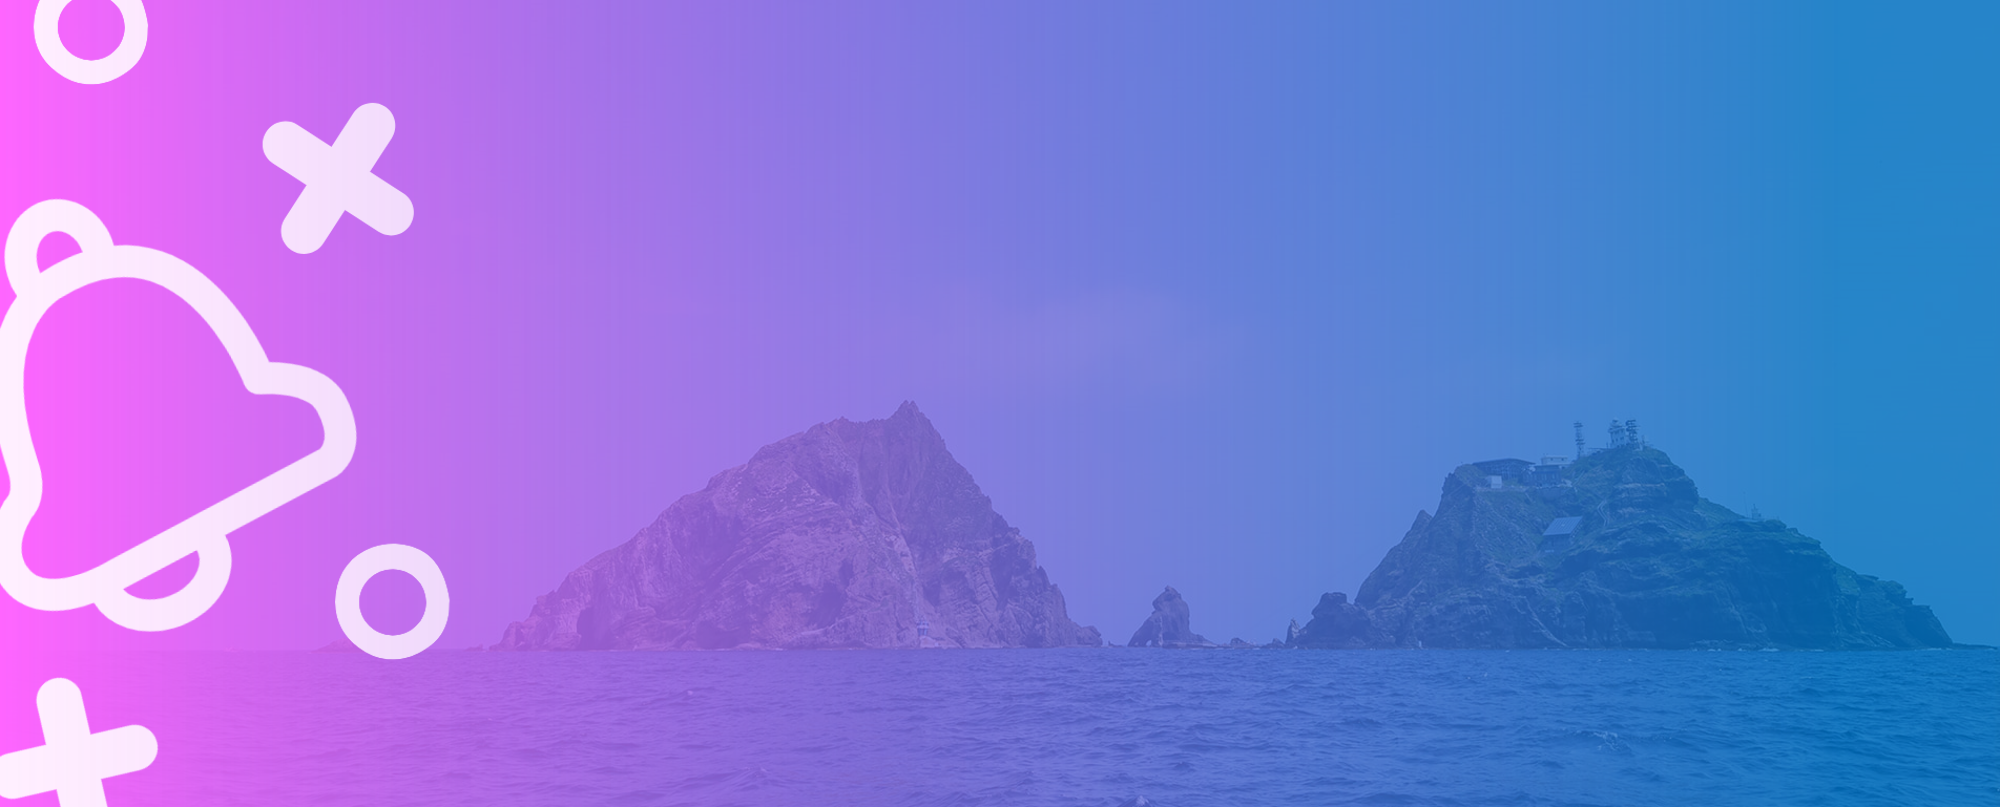
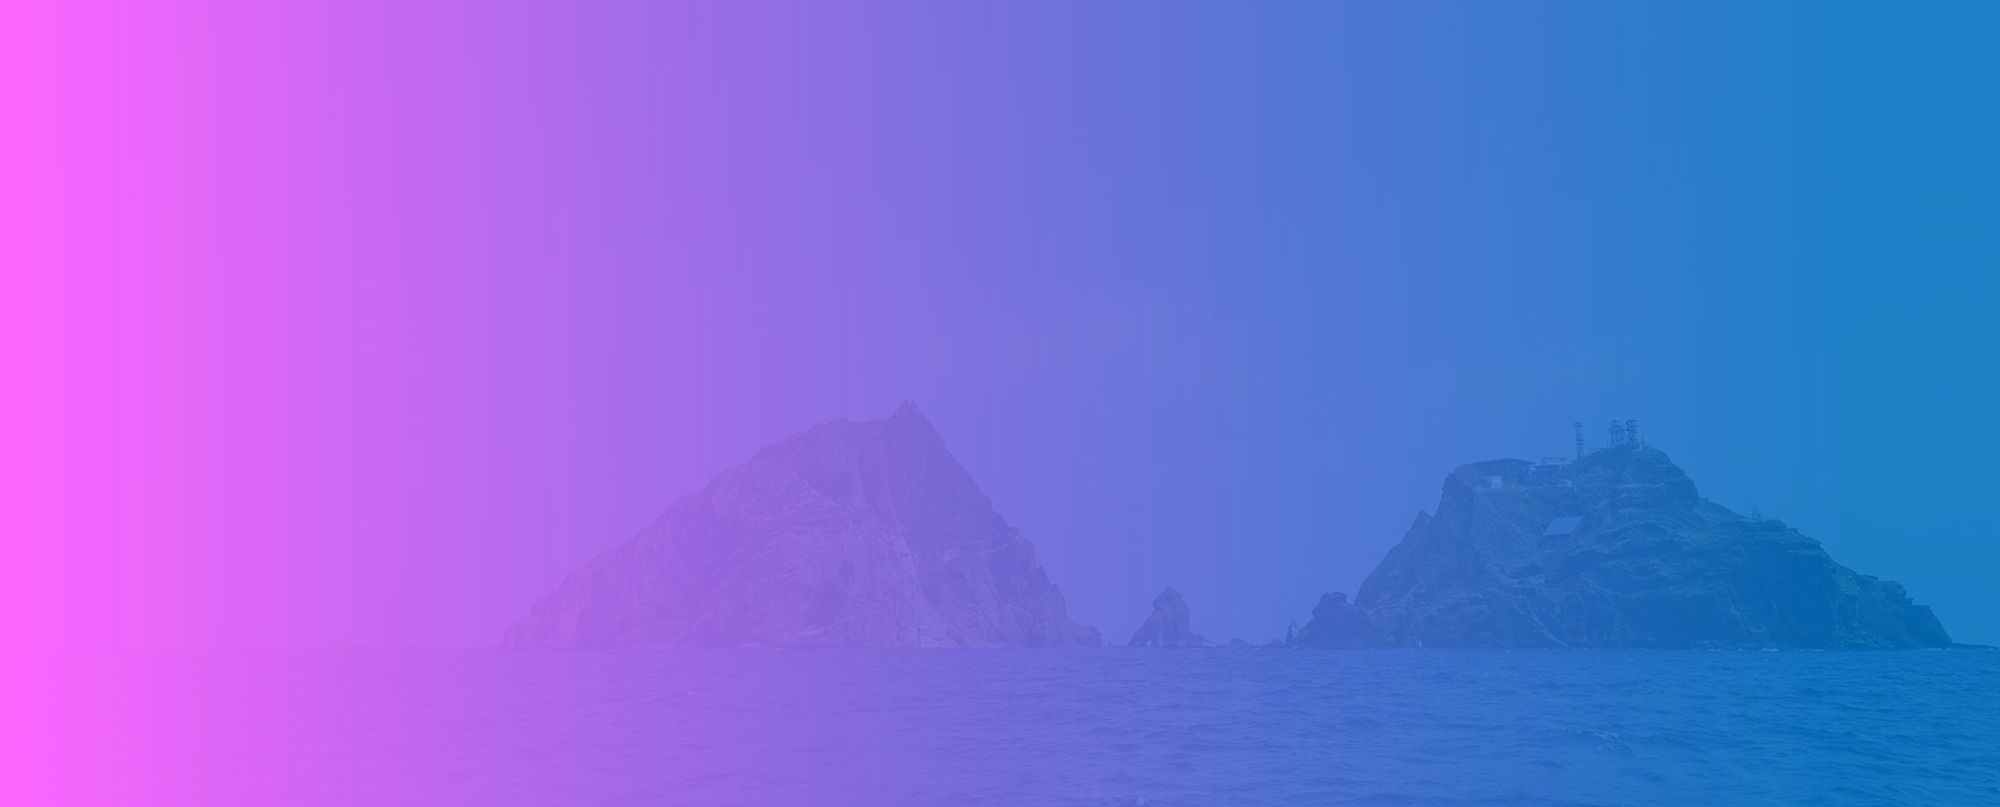
update

diff --git a/dokdogdb.html b/dokdogdb.html
@@ -4,18 +4,67 @@
     <meta charset="UTF-8">
     <meta http-equiv="X-UA-Compatible" content="IE=edge">
     <meta name="viewport" content="width=device-width, initial-scale=1.0">
-    <link rel="stylesheet" href="../index.css">
+    <link rel="stylesheet" href="./index.css">
     <link rel="stylesheet" href="./dokdogdb.css">
     <script src="http://code.jquery.com/jquery-latest.js"></script>
     <title>독도애락ㅣ독도골든벨</title>
+    <link rel="shortcut icon" type="image/x-icon" href="./img/독도icon.svg">
 </head>
 <body>
     <div class="ld"></div>
     <div class="topbar">
         <div class="topbar_group_1">
-            <img class="topbar_titleimg" src="../img/독도icon.svg" width="100px">
+            <img class="topbar_titleimg" src="./img/독도icon.svg" width="100px">
             <div class="topbar_title fwt">독도애락</div>
         </div>
+    </div>
+    <div class="i_1">
+        <div class="i_1_img__">
+            <img class="i_1_img_" src="./img/bell.png">
+        </div>
+        <img class="i_1_img" src="./img/banner_dgb.png">
+        <div class="i_1_text right">
+            <div class="i_1_title fmedium">독도 골든벨</div>
+            <div class="i_1_subtitle fregular">독도 골든벨에 오신걸 환영합니다!</div>
+        </div>
+    </div>
+    <div class="i_margin_top"></div>
+    <div class="b_1">
+        <div class="b_1_">
+            <img class="b_1_img" src="./img/dokdo.png">
+            <div class="b_1__">
+                <div class="b_1_line"></div>
+                <div class="b_1_text">
+                    <div class="b_1_title fmedium">독도를 얼마나 아시나요?</div>
+                    <div class="b_1_subtitle flight">독도 골든벨은 독도에 대한 퀴즈를 푸는 대회입니다!<br />여러분이 독도에대해 얼마나 아는지가 승패를 가릅니다!</div>
+                </div>
+            </div>
+        </div>
+        <div class="b_1_">
+            <img class="b_1_img" src="./img/hand.png">
+            <div class="b_1__">
+                <div class="b_1_line"></div>
+                <div class="b_1_text">
+                    <div class="b_1_title fmedium">누구보다 빠르게!</div>
+                    <div class="b_1_subtitle flight">문제의 답을 빨리 맞출수록 더 많은 점수가 주어집니다!<br />누구보다 빠르게 답을 맞춰보세요!</div>
+                </div>
+            </div>
+        </div>
+        <div class="b_1_">
+            <img class="b_1_img" src="./img/gift.png">
+            <div class="b_1__">
+                <div class="b_1_line"></div>
+                <div class="b_1_text">
+                    <div class="b_1_title fmedium">엄청난 상품!</div>
+                    <div class="b_1_subtitle flight">순위권에 들면 엄청난 문화 상품권을 드립니다!<br />누구보다 빠르게 답을 맞춰보세요!</div>
+                </div>
+            </div>
+        </div>
+    </div>
+    <div class="i_margin_top"></div>
+    <div class="b_2 fbold">이제,<br /><span class="b_bold">독도 골든벨</span>에<br />참가해 볼까요?</div>
+    <div class="b_2__">
+        <iframe class="b_2_" src="https://docs.google.com/forms/d/e/1FAIpQLSfcJSAS7GzDvxQQqTbf1OgqlL3Y3UPc4NlH0LBJSD631Hdqhw/viewform?embedded=true" height="600" frameborder="0" marginheight="0" marginwidth="0">로드 중…</iframe>
     </div>
     <script>
         $(window).load(function(){

diff --git a/index.css b/index.css
@@ -1,26 +1,32 @@
 body{margin: 0; font-family: fregular; }
 a{color: white; text-decoration: none;}
 
-.topbar{width: 100%; position: fixed; background-color: rgba(255,255,255,0.4); border-bottom: 1px solid white; backdrop-filter: blur(10px); z-index: 999; top: 0;}
+.topbar{width: 100%; position: fixed; background-color: rgba(255,255,255,0.4); border-bottom: 1px solid white; backdrop-filter: blur(10px); z-index: 998; top: 0;}
 .topbar_group_1{display: flex;}
 .topbar_title{margin-right: auto; font-size: 2em; margin-top: 17px;}
 .topbar_titleimg{margin-left: auto; padding: 10px 5px 10px 0px;}
 
 .i_1{width: 100vw; height: auto;}
 .i_1_img{position: absolute; z-index: -999; width: 100vw; top: 0;}
-.i_1_text{color: white; margin-top: calc(50% - 33vw); margin-right: 150px}
+.i_1_img__{position: absolute; z-index: -998; width: 100vw; top: 0; overflow-x: hidden;}
+.i_1_img_{width: 100vw; top: 0; opacity: 0.5;}
+.i_1_text{color: white; margin-top: calc(50% - 33vw); margin-right: 150px;}
 .i_1_title{font-size: 4em;}
-.i_1_subtitle{font-size: 2em; opacity: 0.7;}
+.i_1_subtitle{font-size: 2em; opacity: 0.9;}
+.i_margin_top{margin-top: calc(60% - 33vw);}
 
 @media all and (max-width:1000px) {
+    .i_1{height: 280px;}
     .i_1_text{margin-top: 220px; margin-right: 20px;}
-    .i_1{height: 500px;}
     .i_1_img{height: 500px; width: auto; margin-left: calc(100vw - 1239.16px);}
+    .i_1_img_{height: 500px; width: auto; margin-right: calc(100vw - 1239.16px);}
+    .i_1_text{font-size: 0.8em;}
+    .i_margin_top{margin-top: 170px;}
 }
 
 .mh:hover{cursor: pointer;}
 
-.ld{width: 100vw; height: 100vh; position: fixed; z-index: 999; background-color: white;}
+.ld{width: 100vw; height: 100vh; position: fixed; z-index: 999; background-color: white; top: 0;}
 
 .right{text-align: right;}
 .center{text-align: center;}

diff --git a/dokdogdb.css b/dokdogdb.css
@@ -1,0 +1,26 @@
+.b_1_{margin-bottom: 50px; margin-left: 50%; transform: translateX(-50%); width: 550px;}
+.b_1_line{height: 100px; width: 10px; background: linear-gradient(#FF65FF, #0070C0);}
+.b_1_img{border-radius: 50%; width: 100px;}
+
+.b_2{font-size: 1.8em; text-align: center;}
+.b_2_{margin-left: 50%; transform: translateX(-50%); margin-top: 50px; margin-bottom: 30px; border-radius: 30px; box-shadow: 0 0 30px rgba(0,0,0,0.06); width: 600px;}
+
+.b_bold{color: #0066ff; font-size: 1.3em;}
+
+@media all and (min-width: 1001px) {
+    .b_1__{display: flex;}
+    .b_1_title{font-size: 1.8em; margin-left: 50px;}
+    .b_1_subtitle{font-size: 1.4em; margin-left: 50px;}
+}
+
+@media all and (max-width: 1000px) {
+    .b_1_{margin-bottom: 50px; margin-left: 50%; transform: translateX(-50%); width: 400px;}
+    .b_1_line{height: 30px; width: 5px; background: linear-gradient(#FF65FF, #0070C0);}
+    .b_1_img{border-radius: 50%; width: 70px;}
+    .b_1_title{font-size: 1.6em;}
+    .b_1_subtitle{font-size: 1em;}
+    
+    .b_2{font-size: 1.6em; text-align: center;}
+    .b_2__{width: 500px; overflow-x: hidden;}
+    .b_2_{margin-left: 50%; transform: translateX(-50%); margin-top: 50px; margin-bottom: 30px; border-radius: 30px; box-shadow: 0 0 30px rgba(0,0,0,0.06); width: 450px;}
+}

diff --git a/main.html b/main.html
@@ -24,7 +24,20 @@
             <div class="i_1_subtitle fregular">OO중 독도 동아리</div>
         </div>
     </div>
+    <div class="i_margin_top"></div>
     <div class="m_1 fbold">대회 & 이벤트</div>
+    <div class="m_2">
+        <div class="m_2_ mh" style="background-color: #0070C0;" onclick="location.href='./dokdogdb'">
+            <div class="m_2_title fmedium">독도 골든벨</div>
+            <div class="m_2_line"></div>
+            <div class="m_2_subtitle fregular">독도에 대한 문제를 맞추고<br>골든벨을 울려라!</div>
+        </div>
+        <div class="m_2_ mh" style="background-color: #FF65FF;" onclick="location.href='./dokdorep'">
+            <div class="m_2_title fmedium">독도 방탈출</div>
+            <div class="m_2_line"></div>
+            <div class="m_2_subtitle fregular">어쩌다 독도에 갇혀버렸다..!<br>탈출할 방법을찾아 집으로 돌아가자!</div>
+        </div>
+    </div>
     <script>
         $(window).load(function(){
             $('.ld').fadeOut();

diff --git a/main.css b/main.css
@@ -1,1 +1,19 @@
-.m_1{font-size: 1.5em; border-bottom: 1px black; margin-left: 30px;}
+.m_1{font-size: 2em; border-bottom: 2px solid black; margin-left: 30px; width: 350px;}
+
+.m_2{margin-bottom: 120px;}
+.m_2_{width: 320px; height: 140px; border-radius: 20px; color: rgba(255,255,255,0.9); padding: 5px 0px 5px 20px; overflow-y: hidden; margin: 100px auto 0px auto;}
+.m_2_title{font-size: 1.7em; margin-top: 50px; transition: 0.5s;}
+.m_2_line{width: 30px; border-bottom: 2px solid rgba(255,255,255,0.9); opacity: 0; transition: 0.7s;}
+.m_2_subtitle{font-size: 1.2em; margin-top: 53px; transition: 0.9s;}
+
+.m_2_:hover > .m_2_title{color: white; transition: 0.5s; margin-top: 18px;}
+.m_2_:hover > .m_2_line{width: 200px; opacity: 1; border-color: white; transition: 0.7s;}
+.m_2_:hover > .m_2_subtitle{color: white; margin-top: 5px; transition: 0.9s;}
+
+@media all and (min-width:1001px) {
+    .m_2{display: flex;}
+}
+
+@media all and (max-width:1000px) {
+    .m_1{margin-top: 170px;}
+}

diff --git a/dokdorep.html b/dokdorep.html
@@ -4,7 +4,7 @@
     <meta charset="UTF-8">
     <meta http-equiv="X-UA-Compatible" content="IE=edge">
     <meta name="viewport" content="width=device-width, initial-scale=1.0">
-    <link rel="stylesheet" href="../main.css">
+    <link rel="stylesheet" href="./main.css">
     <link rel="stylesheet" href="./dokdogdb.css">
     <script src="http://code.jquery.com/jquery-latest.js"></script>
     <title>독도애락ㅣ독도방탈출</title>
